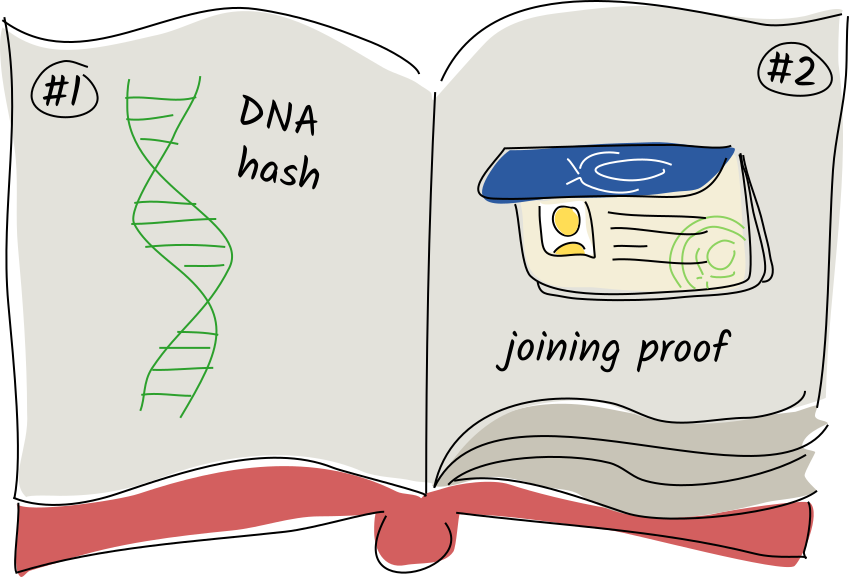
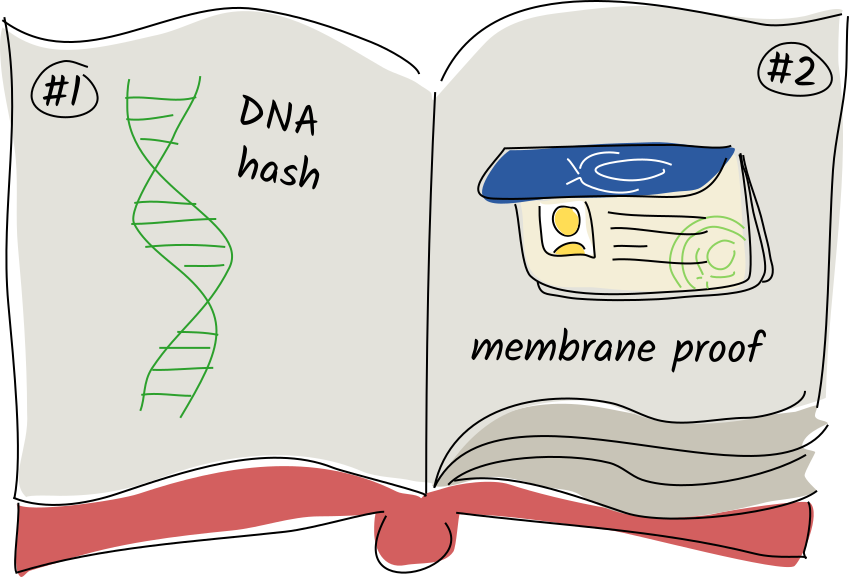
CC, DHT: formatting fixes and new images

Changed region(s): [[0.5512, 0.5615, 0.8881, 0.6551], [0.8881, 0.5615, 0.9187, 0.5927]]

diff --git a/src/pages/concepts/4_dht.md b/src/pages/concepts/4_dht.md
@@ -34,15 +34,15 @@ And finally, in cases where the validity of a given piece of data depends on a b
 
 ## The distributed hash table, a public data store
 
-![](/assets/img/concepts/4.1-network.png)
+![](/assets/img/concepts/4.1-network.png){.sz80p} {.center}
 
 In a Holochain network, you share your source chain actions and public entries with a random selection of your peers, who witness, validate, and hold copies of them.
 
-![](/assets/img/concepts/4.2-public-entry-commit.png)
+![](/assets/img/concepts/4.2-public-entry-commit.png){.sz80p} {.center}
 
 When you commit a record with private data, the entry data stays in your source chain, but its action header is still shared.
 
-![](/assets/img/concepts/4.3-private-entry-commit.png)
+![](/assets/img/concepts/4.3-private-entry-commit.png){.sz80p} {.center}
 
 Every DNA has its own private, encrypted network of peers who [**gossip**](https://en.wikipedia.org/wiki/Gossip_protocol) with one another about new peers, new data, integrity breaches, and network health.
 
@@ -63,29 +63,37 @@ Databases that spread their data among a bunch of machines have a performance pr
 
 Every agent knows about all of its closest neighbors and a few faraway acquaintances. Using these connections, they can find any other agent in the DHT with just a few hops. This makes it fairly quick to find the right authorities for an address.
 
-![](/assets/img/concepts/4.4-address-space-and-neighborhoods.png)
+![](/assets/img/concepts/4.4-address-space-and-neighborhoods.png){.sz80p} {.center}
 
 Let's see how this works with a very small address space. Instead of public keys and hashes, we're just going to use letters of the alphabet.
 
-<div class="coreconcepts-storysequence" markdown=1>
-1. ![](/assets/img/concepts/4.5-alice-neighborhood.png)
+::: coreconcepts-storysequence
+
+![](/assets/img/concepts/4.5-alice-neighborhood.png){.sz80p} {.center}
+
 Alice lives at address A. Her neighbors to the left are Diana and Fred, and her neighbors to the right are Zoe and Walter.
 
-2. ![](/assets/img/concepts/4.7-alice-publish-address-calculation.png)
+![](/assets/img/concepts/4.7-alice-publish-address-calculation.png){.sz80p} {.center}
+
 Alice creates an entry containing the word "molecule", whose address is M.
 
-3. ![](/assets/img/concepts/4.8-authority-resolution.png)
+![](/assets/img/concepts/4.8-authority-resolution.png){.sz80p} {.center}
+
 Of all of Alice's neighbors, Fred is closest to that address, so she asks him to store it. Fred hasn't claimed authority for that address, so he tells Alice about his neighbor Louise.
 
-3. ![](/assets/img/concepts/4.9-gossip-publish.png)
+![](/assets/img/concepts/4.9-gossip-publish.png){.sz80p} {.center}
+
 Alice shares the entry with Louise, who agrees to store it because her neighborhood covers M.
 
-4. ![](/assets/img/concepts/4.10-gossip-resilience.png)
+![](/assets/img/concepts/4.10-gossip-resilience.png){.sz80p} {.center}
+
 Louise shares it with her neighbor, Norman, in case she goes offline.
 
-5. ![](/assets/img/concepts/4.11-retrieval.png)
+![](/assets/img/concepts/4.11-retrieval.png){.sz80p} {.center}
+
 Rosie is a word collector who learns that an interesting new word lives at address is M. She asks her neighbor, Norman, if he has it. Louise has already given him a copy, so he delivers it to Rosie.
-</div>
+
+:::
 
 ## Resilience and availability
 
@@ -97,19 +105,25 @@ Using information about their neighbors' uptime, cooperating agents work hard to
 
 Let's see how this plays out in the real world.
 
-<div class="coreconcepts-storysequence" markdown=1>
-![](/assets/img/concepts/4.12-healthy-network.png)
-1. An island is connected to the mainland by a radio link. They communicate with each other using a Holochain app.
+::: coreconcepts-storysequence
 
-![](/assets/img/concepts/4.13-partition.png)
-2. A hurricane blows through and wipes out both radio towers. The islanders can't talk to the mainlanders, and vice versa, so some DHT neighbors are unreachable. But everyone can still talk to their physical neighbors. None of the data is lost, but not all of it is available to each side.
+![](/assets/img/concepts/4.12-healthy-network.png){.sz80p} {.center}
 
-![](/assets/img/concepts/4.14-resilience-building.png)
-3. On both sides, all agents attempt to improve resilience by enlarging their arcs. Meanwhile, they operate as usual, talking with one another and creating new data.
+An island is connected to the mainland by a radio link. They communicate with each other using a Holochain app.
 
-![](/assets/img/concepts/4.15-partition-healing.png)
-4. The radio towers are rebuilt, the network partition heals, and new data syncs up across the DHT. At this point everyone has the option of shrinking their arc sizes and prune overly redundant data (although experience has shown them that it might be best to overcompensate in case another hurricane comes around).
-</div>
+![](/assets/img/concepts/4.13-partition.png){.sz80p} {.center}
+
+A hurricane blows through and wipes out both radio towers. The islanders can't talk to the mainlanders, and vice versa, so some DHT neighbors are unreachable. But everyone can still talk to their physical neighbors. None of the data is lost, but not all of it is available to each side.
+
+![](/assets/img/concepts/4.14-resilience-building.png){.sz80p} {.center}
+
+On both sides, all agents attempt to improve resilience by enlarging their arcs. Meanwhile, they operate as usual, talking with one another and creating new data.
+
+![](/assets/img/concepts/4.15-partition-healing.png){.sz80p} {.center}
+
+The radio towers are rebuilt, the network partition heals, and new data syncs up across the DHT. At this point everyone has the option of shrinking their arc sizes and prune overly redundant data (although experience has shown them that it might be best to overcompensate in case another hurricane comes around).
+
+:::
 
 ## A cloud of witnesses
 

diff --git a/src/pages/concepts/3_source_chain.md b/src/pages/concepts/3_source_chain.md
@@ -57,7 +57,8 @@ It's most helpful to think of an action as just that --- the _act of changing ap
 This journal starts with four special system records:
 
 ![](/assets/img/concepts/3.3-genesis-records-1-and-2.png){.sz60p} {.center}
-![](/assets/img/concepts/3.4-genesis-record-3.png){.sz60p} {.center}
+
+![](/assets/img/concepts/3.4-genesis-records-3-and-4.png){.sz60p} {.center}
 
 1. The **DNA hash**. Because the DNA's executable code constitutes the 'rules of the game' for everyone in the app, this record shows that your Holochain runtime has seen and agrees to abide by those rules.
 2. The agent's **membrane proof**. When a cell tries to join this DNA's peer-to-peer network, it shares this entry with the existing peers, who check it and determine whether the cell should be allowed to join. Examples: an invite code, an employee ID signed by the HR department, or a proof of paid subscription fees.
